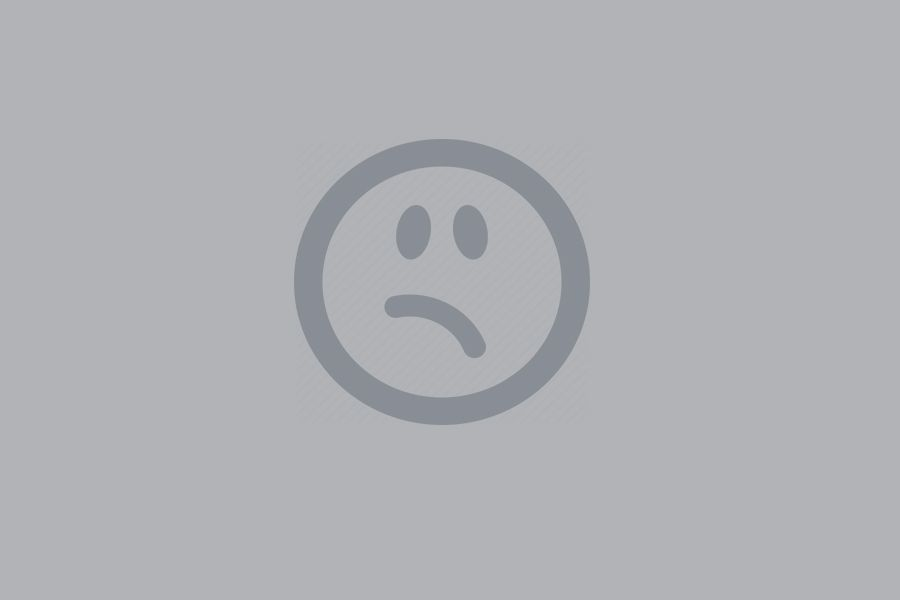
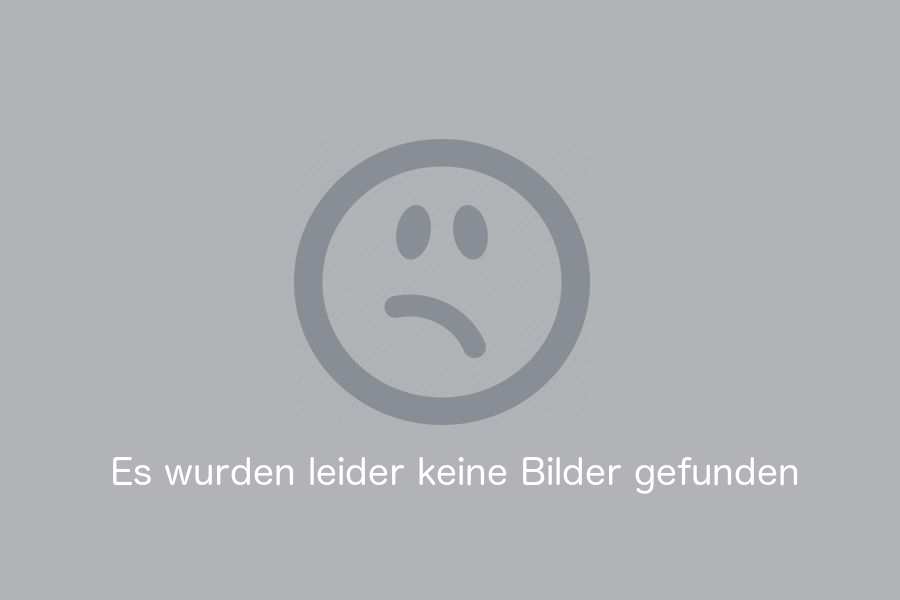
image fix, google recaptcha fix

Changed region(s): [[0.1244, 0.75, 0.9022, 0.81]]

diff --git a/www/js/AppCtrl.js b/www/js/AppCtrl.js
@@ -280,7 +280,7 @@
                 
                 var countChildrenRef =  new Firebase("https://vote-x.firebaseio.com/users/"+$scope.user_uid+"/search_history");
           
-                searchID(countChildrenRef,searchRef, $scope.place_id, $scope.dynamicName, $scope.type,$scope.place.formatted_address);
+                searchID(countChildrenRef,searchRef, $scope.place_id, $scope.dynamicName, $scope.type,$scope.place.formatted_address, $scope.icon);
 
                 }
  
@@ -322,7 +322,7 @@
 
     // -------------------- Suche Index erzeugen ---------------------
     
-    var searchID = function(data, searchRef, place_id, place_name1, type,address) {
+    var searchID = function(data, searchRef, place_id, place_name1, type,address, icon) {
         data.once("value", function(snapshot){
            var a = snapshot.numChildren();
        
@@ -337,7 +337,10 @@
       
       if(address == undefined)
       address = null;
-                 
+
+      if(icon == undefined)
+      icon = null;
+                       
       var searchArray = $firebaseArray(data);
       
       searchArray.$add({
@@ -345,7 +348,8 @@
             place_id: place_id,
             place_name: place_name1,
             place_type: type,
-            place_address: address
+            place_address: address,
+            place_icon: icon
       }) ;   
 
       

diff --git a/www/index.html b/www/index.html
@@ -24,7 +24,7 @@
     <script src="lib/angular-tooltips/dist/angular-tooltips.min.js"></script>
     <!-- Include the JS ReCaptcha API -->
     <script src="lib/angular-recaptcha/release/angular-recaptcha.min.js"></script>
-    <script src="//www.google.com/recaptcha/api.js?render=explicit&onload=vcRecaptchaApiLoaded" async defer></script>
+    <script src="www.google.com/recaptcha/api.js?render=explicit&onload=vcRecaptchaApiLoaded" async defer></script>
     
     <!-- codrops button -->
     <script type="text/javascript" src="lib/angular-progress-button-styles/dist/angular-progress-button-styles.min.js"></script>

diff --git a/www/templates/search.html b/www/templates/search.html
@@ -9,7 +9,7 @@
   <div class="item item-avatar">
          <h2>{{object.place_name}}</h2>
          
-    <p><img ng-src="{{icon}}" ng-show="icon" lazy-scroll-resize="true" style="max-width: 20px"> </img> {{object.place_type}}</p>
+    <p><img ng-src="{{object.place_icon}}" style="max-width: 20px"> </img>{{object.place_type}}</p>
 
     <p>{{object.place_address}}</p>
     

diff --git a/www/templates/register.html b/www/templates/register.html
@@ -53,6 +53,8 @@
       <div class="form-error" ng-message="pattern">Ihr Passwort darf nur aus Buchstaben und Zahlen bestehen!</div>
     </div>
     <div
+         style="margin-top: 15px"
+         align="center"
          vc-recaptcha
          theme="'light'"
          key="model.key"
